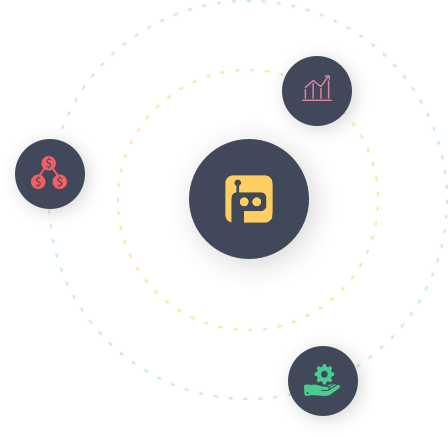
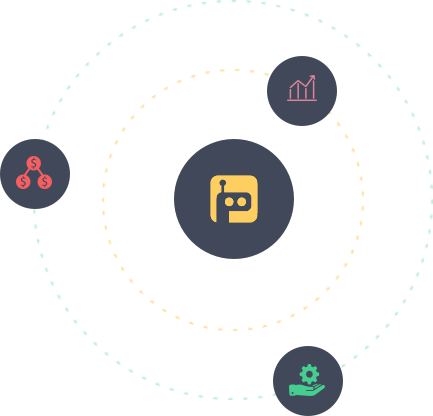
New flat images

diff --git a/src/pages/HomePage.js b/src/pages/HomePage.js
@@ -106,7 +106,7 @@ const HomePage = () => (
         </div>
         <div className="home__features__item">
           <div className="home__features__item__img">
-            <img src="/assets/img/real-time_inference.png" alt="Real Time Inference" />
+            <img src="/assets/svg/real-time-inference.svg" alt="Real Time Inference" />
           </div>
           <div className="home__features__item__text">
             <div className="home__features__item__text__logo home__features__item__text__logo--purple">
@@ -141,7 +141,7 @@ const HomePage = () => (
         </div>
         <div className="home__features__item">
           <div className="home__features__item__img">
-            <img src="/assets/img/high-level_query.png" alt="High Query Language" />
+            <img src="/assets/svg/high-level-query.svg" alt="High Query Language" />
           </div>
           <div className="home__features__item__text">
             <div className="home__features__item__text__logo home__features__item__text__logo--green">
